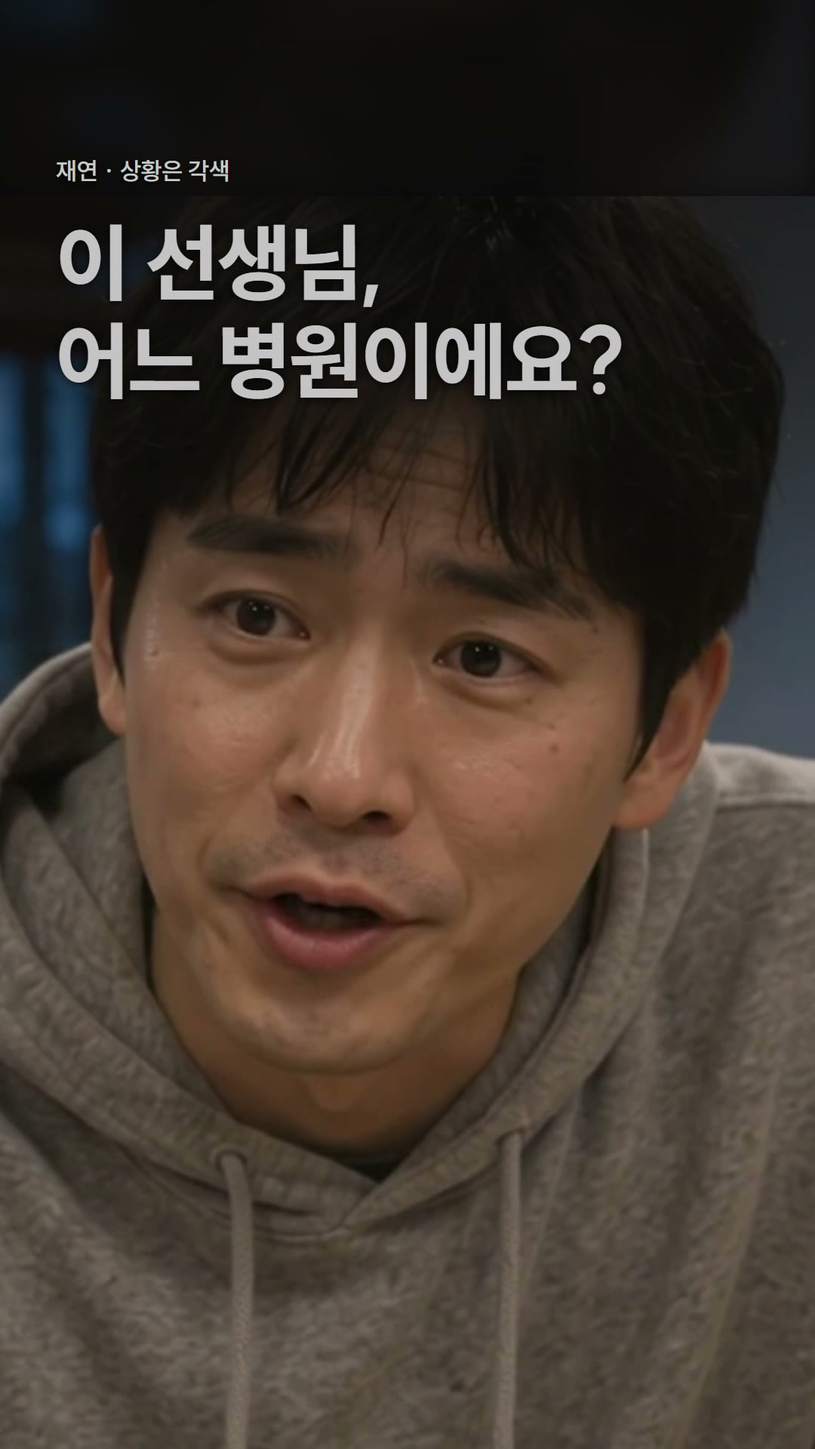
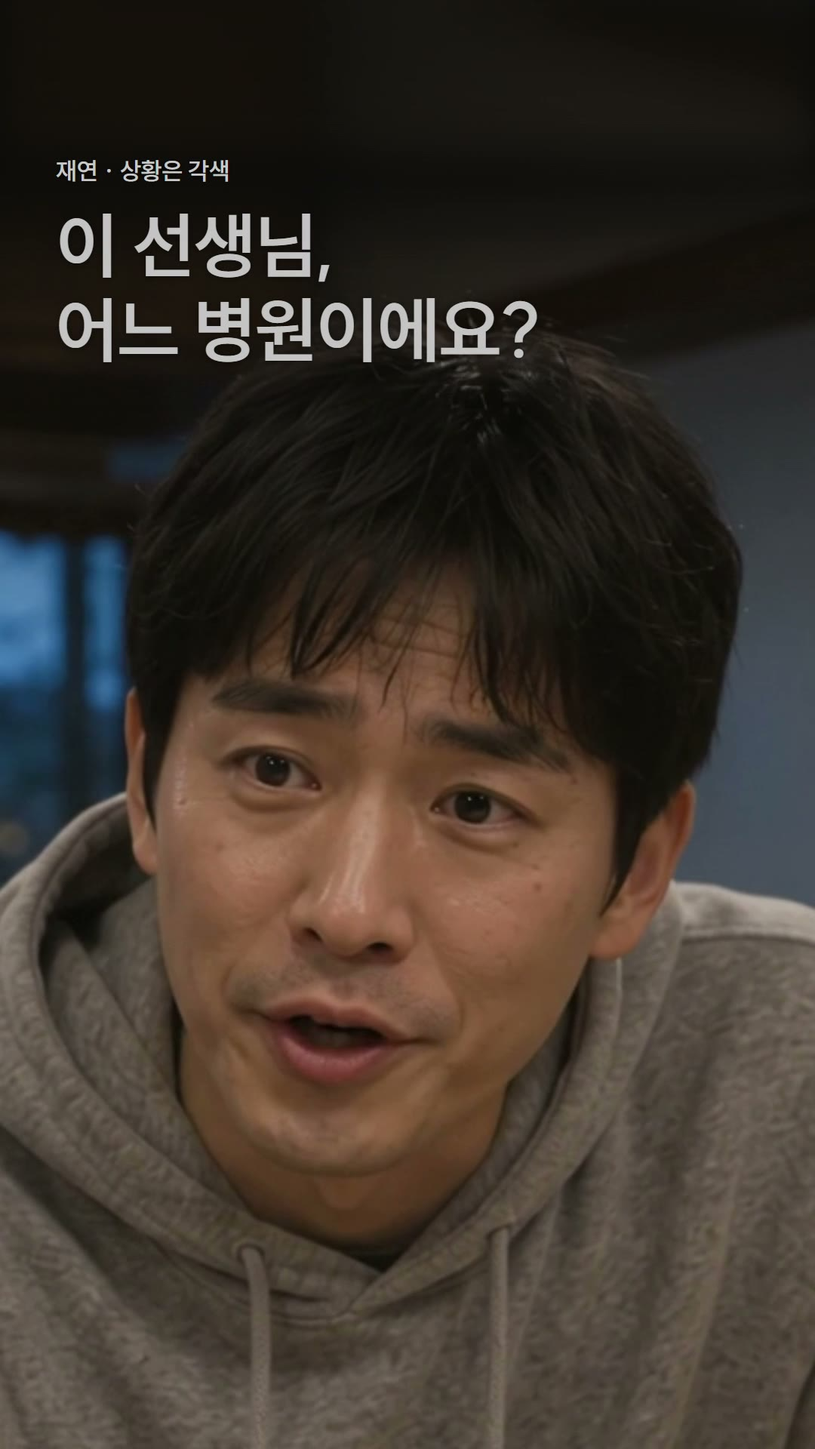
wip(synkbrief B38 가짜 의사 v7~v9 · 11-10 07:39 회차): 미학 맹검 GPT 둘 · 아르곤 둘 — 흐린 거울 경계 녹임 · 큰 글자 가볍게 · 광고 표시 아래로 · 해설 칸 말하는 구간 · 약사 칸 얼굴과 가운만 · 끝 칸 두 얼굴. v9 아르곤 기각 셋(광고 얼굴 두 컷 토킹헤드 · 끝 점프컷)이 남고 01~04는 세 번 거절 · GPT는 11-11 15:38까지 막혀 완성 아님 — 15:05 회차가 이어 받음(장부 · 기획 「미학 맹검」). 현장 노트 둘(동영상 만들기 회색 = 그날 몫 · 지어낸 목

diff --git a/docs/마케팅/synkbrief_가짜의사_20261110/remotion/src/timeline.ts b/docs/마케팅/synkbrief_가짜의사_20261110/remotion/src/timeline.ts
@@ -5,7 +5,7 @@
 // 대사 초는 받은 영상의 소리 크기 곡선 + 받아쓰기(허깅페이스 whisper)로 잰 값. V2 4.40~5.15초의 지어낸 아들 목소리 「어떤 선생님이요?」는 쓰지 않는다.
 // 광고 속 의사의 말(A1 · A3)은 그 광고 동영상의 소리를 폰 스피커 결로 깐다(public/img/*_phone.wav). V6에 든 폰 소리(「지금 바로 주문하세요」)는 쓰지 않는다.
 export type Crop = { s: number; cx: number; cy: number; ay?: number };
-export type CutT = { from: number; to: number; src: string; start: number; crop: Crop; rate?: number; drift?: number; audio?: number; ad?: boolean };
+export type CutT = { from: number; to: number; src: string; start: number; crop: Crop; rate?: number; drift?: number; audio?: number; ad?: boolean; chrome?: boolean; shade?: number };
 
 export const S = {
   search: 23.7, searchResult: 24.7, searchEnd: 26.0,
@@ -19,26 +19,27 @@ export const FPS = 24;
 export const CUTS: CutT[] = [
   // 기 — 광고 속 의사 → 넓게(식탁의 아버지 · 상자 일곱 · 뒤의 아들) → 아들 가까이(뒷목) → 아버지 근접 「선생님이 드시래」 → 상자
   // v6(11-10 미학 맹검 01 기각 「청진기 줄이 ∩ 고리로 뭉개짐」): 얼굴 · 상자까지만 당겨 가슴 아래 청진기를 뺀다
-  { from: 0, to: 1.15, src: 'img/A1.mp4', start: 1.2, crop: { s: 1.9, cx: 390, cy: 790 }, ad: true },
+  { from: 0, to: 1.15, src: 'img/A1.mp4', start: 1.2, crop: { s: 1.9, cx: 390, cy: 790, ay: 990 }, ad: true },
   { from: 1.15, to: 4.45, src: 'img/V1.mp4', start: 0.1, crop: { s: 1.0, cx: 540, cy: 960 }, audio: 0.5, drift: 0.015 },
   { from: 4.45, to: 7.0, src: 'img/V1.mp4', start: 4.15, crop: { s: 1.8, cx: 860, cy: 640 }, audio: 0.5 },
   { from: 7.0, to: 8.2, src: 'img/V2.mp4', start: 1.9, crop: { s: 1.05, cx: 540, cy: 960 }, audio: 1.0 },
   { from: 8.2, to: 9.3, src: 'img/V2.mp4', start: 3.1, crop: { s: 1.35, cx: 560, cy: 900 }, audio: 1.0 },
-  { from: 9.3, to: 10.5, src: 'img/V2.mp4', start: 4.2, crop: { s: 2.4, cx: 560, cy: 1750, ay: 1300 } },
+  { from: 9.3, to: 10.5, src: 'img/V2.mp4', start: 4.2, crop: { s: 2.4, cx: 560, cy: 1750, ay: 1350 } },
   // 승 — 「이거 몇 개째예요?」 → 「유명한 선생님이야」 → 「이 선생님, 어느 병원이에요?」 → 「…어디더라」
   { from: 10.5, to: 12.05, src: 'img/V3.mp4', start: 1.6, crop: { s: 1.1, cx: 600, cy: 1000 }, audio: 1.0 },
   { from: 12.05, to: 13.0, src: 'img/V3.mp4', start: 3.15, crop: { s: 1.4, cx: 640, cy: 950 }, audio: 1.0 },
   { from: 13.0, to: 15.1, src: 'img/V2.mp4', start: 5.25, crop: { s: 1.3, cx: 560, cy: 900 }, audio: 1.0 },
   { from: 15.1, to: 16.9, src: 'img/V3.mp4', start: 6.1, crop: { s: 1.45, cx: 640, cy: 900 }, audio: 1.0 },
-  { from: 16.9, to: 18.6, src: 'img/V3.mp4', start: 7.9, crop: { s: 1.8, cx: 640, cy: 880 }, audio: 1.0 },
+  { from: 16.9, to: 18.6, src: 'img/V3.mp4', start: 7.9, crop: { s: 1.6, cx: 640, cy: 820, ay: 1000 }, audio: 1.0 },
   { from: 18.6, to: 22.5, src: 'img/V4.mp4', start: 1.6, crop: { s: 1.05, cx: 540, cy: 980 }, audio: 1.0 },
   // 전 — 찾아봄 → 재연용 검색 화면 「일치하는 결과가 없습니다」 → 「이 얼굴, 아무 데도 없는데요」 → 아버지 얼굴 위 해설 → 광고 속 그 얼굴 → 폰을 내려놓음(느리게) → 상자
   { from: 22.5, to: 23.7, src: 'img/V4.mp4', start: 4.6, crop: { s: 1.7, cx: 760, cy: 1200 }, audio: 0.8 },
   { from: 26.0, to: 28.2, src: 'img/V4.mp4', start: 5.8, crop: { s: 1.05, cx: 540, cy: 980 }, audio: 1.0 },
   { from: 28.2, to: 29.6, src: 'img/V4.mp4', start: 8.0, crop: { s: 1.5, cx: 380, cy: 960 }, rate: 0.6 },
-  { from: 29.6, to: 32.7, src: 'img/A1.mp4', start: 7.0, crop: { s: 1.7, cx: 560, cy: 740 }, drift: 0.02, ad: true },
+  // v7(11-10 맹검 GPT 05 기각 「웃은 채 굳음 · 광고 표시가 입 · 볼에 걸림」): 말하며 끄덕이는 구간(3.0~6.1초)을 소리 없이, 얼굴 당김 칸엔 광고 표시를 얹지 않는다
+  { from: 29.6, to: 32.7, src: 'img/A1.mp4', start: 3.0, crop: { s: 1.5, cx: 610, cy: 760, ay: 1080 }, drift: 0.02, ad: true, chrome: false }, // v9(아르곤 05 [C083] 「정중앙 대칭 · 귀가 잘림」): 덜 당기고 얼굴을 조금 왼쪽에
   { from: 32.7, to: 35.05, src: 'img/V4.mp4', start: 8.85, crop: { s: 1.35, cx: 380, cy: 1000 }, rate: 0.5 },
-  { from: 35.05, to: 37.3, src: 'img/V1.mp4', start: 7.6, crop: { s: 1.8, cx: 520, cy: 1480, ay: 1100 }, audio: 0.3, drift: 0.01 },
+  { from: 35.05, to: 37.3, src: 'img/V1.mp4', start: 7.6, crop: { s: 1.8, cx: 520, cy: 1480, ay: 1150 }, audio: 0.3, drift: 0.01 },
   // 결 — 머쓱한 웃음 → 끝 줄(V5 · Flow, 반전 자리 40.9초에 아들 가까이) → 폰이 저절로 켜짐 → 같은 얼굴 · 약사 → 마주 봄 → 엎음 → 웃음 → 웃음 당김(끝 자리)
   { from: 37.3, to: 40.9, src: 'img/V5.mp4', start: 0.0, crop: { s: 1.0, cx: 540, cy: 960 }, audio: 1.0 },
   { from: 40.9, to: 42.4, src: 'img/V5.mp4', start: 3.6, crop: { s: 1.4, cx: 860, cy: 900 }, audio: 1.0 },
@@ -46,29 +47,34 @@ export const CUTS: CutT[] = [
   { from: 43.5, to: 44.9, src: 'img/V5.mp4', start: 6.2, crop: { s: 1.6, cx: 300, cy: 900 }, audio: 1.0 },
   { from: 44.9, to: 45.8, src: 'img/V6.mp4', start: 0.15, crop: { s: 1.0, cx: 540, cy: 1000 } },
   // 이해 시험(넷 중 넷): 약사 광고를 못 보거나 같은 얼굴을 늦게 알아챔 → 2.3초로 늘리고 첫 광고 얼굴(c13)과 같은 크기로 당긴다
-  { from: 45.8, to: 48.1, src: 'img/A3.mp4', start: 1.7, crop: { s: 1.35, cx: 540, cy: 780 }, drift: 0.02, ad: true },
+  // v7(맹검 GPT 06 「상자가 오른쪽에서 잘림」): 덜 당기고 상자 쪽으로
+  // v9(아르곤 06 기각 「엄지 없이 네 손끝으로 붙은 상자 · 몸이 굳은 립싱크」 · GPT 06 「상자가 목업 같음」): 손 · 상자를 빼고 얼굴과 약사 가운만, 밝은 칸이라 위 그늘은 옅게
+  { from: 45.8, to: 48.1, src: 'img/A3.mp4', start: 1.7, crop: { s: 1.5, cx: 405, cy: 760, ay: 1000 }, drift: 0.025, ad: true, shade: 0.6 },
   { from: 48.1, to: 49.0, src: 'img/V6.mp4', start: 3.7, crop: { s: 1.35, cx: 540, cy: 900 } },
   { from: 49.0, to: 49.85, src: 'img/V6.mp4', start: 5.45, crop: { s: 1.0, cx: 540, cy: 1000 }, audio: 1.0 },
-  { from: 49.85, to: 51.5, src: 'img/V6.mp4', start: 6.3, crop: { s: 1.15, cx: 540, cy: 940 }, audio: 1.0 },
-  { from: 51.5, to: 53.0, src: 'img/V6.mp4', start: 7.95, crop: { s: 1.4, cx: 560, cy: 880 }, audio: 1.0, drift: 0.008 },
+  // v7: 두 얼굴이 원본 가장자리(x 195 · 960)에 있어 둘을 함께 당기면 잘린다 → 웃는 아버지 가까이 → 끝은 넓게 두 사람과 상자 탑
+  { from: 49.85, to: 51.5, src: 'img/V6.mp4', start: 6.3, crop: { s: 1.3, cx: 420, cy: 900 }, audio: 1.0 }, // v9(아르곤 07 [K32] 「허공의 손이 다음 컷에 이미 어깨 위」): 아들 어깨까지 들게 해 손이 가는 길을 보인다
+  // v7(맹검 GPT 07 「웃는 두 얼굴이 가장자리에서 잘림」): 두 얼굴이 다 들게
+  { from: 51.5, to: 53.0, src: 'img/V6.mp4', start: 7.95, crop: { s: 1.0, cx: 540, cy: 960 }, audio: 1.0, drift: 0.01 },
 ];
 
 // 큰 글자 = 말. grey = 아들(두 사람 말은 흰 · 회색으로만 가른다). 광고 속 말은 위 작은 「광고 속 의사」 · 「다음 광고」. at = 줄마다 뜨는 초(말하는 때).
-export const LINES: { lines: string[]; from: number; to: number; grey?: boolean; size?: number; meta?: string; instant?: boolean; at?: number[] }[] = [
-  { lines: ['하루 두 알이면,', '몸이 거꾸로 젊어집니다'], from: 0, to: 3.3, size: 88, instant: true, at: [0, 1.6] },
-  { lines: ['저도 매일', '두 알씩 먹습니다'], from: 4.45, to: 6.5, size: 96, meta: '광고 속 의사', at: [4.45, 5.3] },
-  { lines: ['선생님이 드시래', '하루 두 알'], from: 7.0, to: 9.25, size: 100, at: [7.0, 8.2] },
-  { lines: ['아버지,', '이거 몇 개째예요?'], from: 11.2, to: 12.95, grey: true, size: 100, at: [11.2, 11.75] },
-  { lines: ['유명한 선생님이야'], from: 13.15, to: 14.55, size: 100 },
-  { lines: ['이 선생님,', '어느 병원이에요?'], from: 16.5, to: 18.5, grey: true, size: 112, at: [16.5, 17.1] },
-  { lines: ['…어디더라', '유튜브에 맨날 나오시는 분인데'], from: 19.05, to: 21.7, size: 84, at: [19.05, 19.9] },
-  { lines: ['…이 얼굴,', '아무 데도 없는데요'], from: 26.05, to: 28.1, grey: true, size: 100, at: [26.05, 26.9] },
-  { lines: ['그 의사, 사람이 아니었어요', 'AI로 만든 가상 인물이었어요'], from: 28.3, to: 32.3, size: 80, at: [28.3, 30.2] },
-  { lines: ['아버지만 산 게 아니었어요'], from: 32.45, to: 33.85, size: 84 },
-  { lines: ['아홉 달 동안 65만 개,', '81억 원어치가 팔렸어요'], from: 33.95, to: 37.25, size: 88, meta: '실제 사건 · 식약처 2026년 6월 발표', at: [33.95, 35.75] },
-  { lines: ['허허…', '비싼 거 아니야'], from: 37.45, to: 39.45, size: 100, at: [37.45, 38.3] },
-  { lines: ['저도 몰랐는데,', '의사가 권하는 영양제 광고는', '원래 안 되는 거래요'], from: 40.05, to: 44.6, grey: true, size: 80, meta: '식품표시광고법', at: [40.05, 41.4, 42.6] },
-  { lines: ['안녕하세요,', '삼십 년 차 약사입니다'], from: 45.1, to: 47.85, size: 96, meta: '다음 광고', at: [45.1, 46.05] },
+export const LINES: { lines: string[]; from: number; to: number; grey?: boolean; size?: number; meta?: string; instant?: boolean; at?: number[]; lead?: boolean }[] = [
+  // v8(맹검 GPT 03 · 05 · 06 [C002] 「큰 제목처럼 머리 위까지」): 큰 글자를 0.85배로 — 그늘 위 큰 글자(화면 결)는 지키되 얼굴보다 먼저 보이지 않게
+  { lines: ['하루 두 알이면,', '몸이 거꾸로 젊어집니다'], from: 0, to: 3.3, size: 75, instant: true, at: [0, 1.6] },
+  { lines: ['저도 매일', '두 알씩 먹습니다'], from: 4.45, to: 6.5, size: 82, meta: '광고 속 의사', at: [4.45, 5.3] },
+  { lines: ['선생님이 드시래', '하루 두 알'], from: 7.0, to: 9.25, size: 85, at: [7.0, 8.2] },
+  { lines: ['아버지,', '이거 몇 개째예요?'], from: 11.2, to: 12.95, grey: true, size: 85, at: [11.2, 11.75] },
+  { lines: ['유명한 선생님이야'], from: 13.15, to: 14.55, size: 85 },
+  { lines: ['이 선생님,', '어느 병원이에요?'], from: 16.5, to: 18.5, grey: true, size: 95, at: [16.5, 17.1] },
+  { lines: ['…어디더라', '유튜브에 맨날 나오시는 분인데'], from: 19.05, to: 21.7, size: 71, at: [19.05, 19.9] },
+  { lines: ['…이 얼굴,', '아무 데도 없는데요'], from: 26.05, to: 28.1, grey: true, size: 85, at: [26.05, 26.9] },
+  { lines: ['그 의사, 사람이 아니었어요', 'AI로 만든 가상 인물이었어요'], from: 28.3, to: 32.3, size: 72, at: [28.3, 30.2], lead: true }, // v8(맹검 05 「폭로 두 줄이 같은 무게」): 앞줄을 낮추고 뒷줄이 핵심
+  { lines: ['아버지만 산 게 아니었어요'], from: 32.45, to: 33.85, size: 71 },
+  { lines: ['아홉 달 동안 65만 개,', '81억 원어치가 팔렸어요'], from: 33.95, to: 37.25, size: 75, meta: '실제 사건 · 식약처 2026년 6월 발표', at: [33.95, 35.75] },
+  { lines: ['허허…', '비싼 거 아니야'], from: 37.45, to: 39.45, size: 85, at: [37.45, 38.3] },
+  { lines: ['저도 몰랐는데,', '의사가 권하는 영양제 광고는', '원래 안 되는 거래요'], from: 40.05, to: 44.6, grey: true, size: 68, meta: '식품표시광고법', at: [40.05, 41.4, 42.6] },
+  { lines: ['안녕하세요,', '삼십 년 차 약사입니다'], from: 45.1, to: 47.85, size: 82, at: [45.1, 46.05] }, // v7: 「다음 광고」 고지 뺌(맹검 GPT 06 「고지가 셋 쌓여 위계가 둔함」 — 광고 표시 · 가상 인물 표기가 이미 말함)
 ];
 
 export const VO: { id: string; t: number }[] = [

diff --git a/docs/마케팅/synkbrief_가짜의사_20261110/remotion/src/Film.tsx b/docs/마케팅/synkbrief_가짜의사_20261110/remotion/src/Film.tsx
@@ -14,13 +14,13 @@ const EASE_OUT = Easing.bezier(0.16, 1, 0.3, 1);
 const sec = (s: number) => Math.round(s * FPS);
 const GREY = '#C4C4C4';
 const X = 74;
-const TOP = 284;
+const TOP = 270;
 
 // 한 컷: 1080×1920 영상의 (cx, cy)를 화면 (540, ay)에 두고 s배 — 넘치는 쪽은 가장자리에 맞춘다
 const Shot: React.FC<{ src: string; start: number; crop: Crop; rate?: number; drift?: number }> = ({ src, start, crop, rate = 1, drift = 0.012 }) => {
   const f = useCurrentFrame();
   const s = crop.s * (1 + (f / FPS) * drift);
-  const ay = crop.ay ?? 880;
+  const ay = crop.ay ?? 930; // v8: 내린 폭을 260 → 210으로 줄인 50px만큼 당긴 컷의 기준을 내린다
   const x = Math.min(0, Math.max(1080 - 1080 * s, 540 - crop.cx * s));
   const y = Math.min(0, Math.max(1920 - 1920 * s, ay - crop.cy * s));
   const style: React.CSSProperties = { position: 'absolute', left: 0, top: 0, width: 1080, height: 1920, transformOrigin: '0 0', transform: `translate(${x}px, ${y}px) scale(${s})` };
@@ -33,13 +33,14 @@ const Shot: React.FC<{ src: string; start: number; crop: Crop; rate?: number; dr
   );
 };
 
-const Lowered: React.FC<{ d?: number; children: React.ReactNode }> = ({ d = 260, children }) => {
+// v8(11-10 맹검 GPT 두 번 「위의 검은 머리판 · 수평 경계가 덧댄 판처럼 보임」): 내린 폭을 줄이고, 또렷한 장면의 윗단을 흐린 거울 쪽으로 녹여 경계를 없앤다
+const Lowered: React.FC<{ d?: number; children: React.ReactNode }> = ({ d = 210, children }) => {
   const f = useCurrentFrame();
   const z = interpolate(f, [0, 8], [1.035, 1], { ...clamp, easing: EASE_OUT });
   return (
     <AbsoluteFill style={{ overflow: 'hidden', background: '#0b0b0b' }}>
-      <div style={{ position: 'absolute', inset: 0, transform: `translateY(${d}px) scaleY(-1)`, transformOrigin: '50% 0%', filter: 'blur(26px) brightness(0.78)' }}>{children}</div>
-      <div style={{ position: 'absolute', inset: 0, transform: `translateY(${d}px) scale(${z})`, transformOrigin: '50% 30%' }}>{children}</div>
+      <div style={{ position: 'absolute', inset: 0, transform: `translateY(${d}px) scaleY(-1)`, transformOrigin: '50% 0%', filter: 'blur(34px) brightness(0.9)' }}>{children}</div>
+      <div style={{ position: 'absolute', inset: 0, transform: `translateY(${d}px) scale(${z})`, transformOrigin: '50% 30%', WebkitMaskImage: 'linear-gradient(to bottom, transparent 0px, black 150px)', maskImage: 'linear-gradient(to bottom, transparent 0px, black 150px)' }}>{children}</div>
     </AbsoluteFill>
   );
 };
@@ -50,8 +51,8 @@ const AdChrome: React.FC<{ len: number }> = ({ len }) => {
   const p = interpolate(f, [0, len], [0.18, 0.34], clamp);
   return (
     <AbsoluteFill>
-      <div style={{ position: 'absolute', left: X, top: 1500, fontFamily: KO, fontWeight: 700, fontSize: 30, color: 'rgba(255,255,255,0.92)', background: 'rgba(0,0,0,0.42)', borderRadius: 8, padding: '6px 14px', letterSpacing: -0.3 }}>광고</div>
-      <div style={{ position: 'absolute', left: 0, right: 0, top: 1600, height: 6, background: 'rgba(255,255,255,0.22)' }}>
+      <div style={{ position: 'absolute', left: X, top: 1700, fontFamily: KO, fontWeight: 700, fontSize: 30, color: 'rgba(255,255,255,0.92)', background: 'rgba(0,0,0,0.42)', borderRadius: 8, padding: '6px 14px', letterSpacing: -0.3 }}>광고</div>
+      <div style={{ position: 'absolute', left: 0, right: 0, top: 1772, height: 6, background: 'rgba(255,255,255,0.22)' }}>
         <div style={{ width: `${p * 100}%`, height: '100%', background: 'rgba(255,255,255,0.85)' }} />
       </div>
     </AbsoluteFill>
@@ -62,13 +63,17 @@ const AdChrome: React.FC<{ len: number }> = ({ len }) => {
 const Shade: React.FC = () => {
   const f = useCurrentFrame();
   const on = LINES.reduce((m, l) => Math.max(m, interpolate(f, [sec(l.from) - 6, sec(l.from), sec(l.to), sec(l.to) + 8], [0, 1, 1, 0], clamp)), 0);
-  const k = 0.42 + 0.58 * on;
-  return <AbsoluteFill style={{ opacity: k, background: 'linear-gradient(to bottom, rgba(10,10,10,0.66) 0px, rgba(10,10,10,0.52) 470px, rgba(10,10,10,0.2) 760px, rgba(10,10,10,0) 940px)' }} />;
+  // v7(맹검 GPT 07 「끝의 짙은 띠가 작은 표기에 비해 크다」): 끝 칸은 표기만 읽히게 더 옅게
+  const base = interpolate(f, [sec(S.end), sec(S.end) + 8], [0.42, 0.2], clamp);
+  // v9(아르곤 맹검 06 「밝은 약국 장면 위를 시커멓게 덮음」): 밝은 칸은 그 칸의 shade 배율만큼 옅게
+  const cut = CUTS.find((c) => f >= sec(c.from) && f < sec(c.to));
+  const k = (base + (1 - base) * on) * (cut?.shade ?? 1);
+  return <AbsoluteFill style={{ opacity: k, background: 'linear-gradient(to bottom, rgba(10,10,10,0.62) 0px, rgba(10,10,10,0.46) 420px, rgba(10,10,10,0.16) 700px, rgba(10,10,10,0) 880px)' }} />;
 };
 
 // 큰 글자가 곧 말 — 다음 줄까지 0.6초 넘게 비면 끝에서 8프레임에 걸쳐 12px 올라가며 사라진다(맞받는 말은 3프레임)
 // at = 줄마다 뜨는 초(말하는 때 · 원본 박자 자리). 없으면 첫 줄부터 3프레임씩.
-const T: React.FC<{ lines: string[]; from: number; to: number; grey?: boolean; size?: number; meta?: string; instant?: boolean; fade?: number; at?: number[] }> = ({ lines, from, to, grey, size = 92, meta, instant, fade = 3, at }) => {
+const T: React.FC<{ lines: string[]; from: number; to: number; grey?: boolean; size?: number; meta?: string; instant?: boolean; fade?: number; at?: number[]; lead?: boolean }> = ({ lines, from, to, grey, size = 92, meta, instant, fade = 3, at, lead }) => {
   const f = useCurrentFrame();
   const a = sec(from), b = sec(to);
   if (f < a || f >= b) return null;
@@ -80,10 +85,10 @@ const T: React.FC<{ lines: string[]; from: number; to: number; grey?: boolean; s
     return { opacity: p * out, transform: `translateY(${(1 - p) * 28 + lift}px)` };
   };
   return (
-    <div style={{ position: 'absolute', left: X, width: 900, top: TOP, fontFamily: KO, textShadow: '0 2px 16px rgba(0,0,0,0.75), 0 0 3px rgba(0,0,0,0.5)' }}>
+    <div style={{ position: 'absolute', left: X, width: 900, top: TOP, fontFamily: KO, textShadow: '0 1px 10px rgba(0,0,0,0.45)' }}>
       {meta ? <div style={{ ...up(0, at ? 0 : undefined), fontWeight: 600, fontSize: 34, letterSpacing: -0.5, color: '#BDBDBD', marginBottom: 18 }}>{meta}</div> : null}
       {lines.map((l, i) => (
-        <div key={i} style={{ ...up(i + (meta ? 1 : 0), at ? i : undefined), fontWeight: 800, fontSize: size, lineHeight: 1.16, letterSpacing: -2.6, color: grey ? GREY : '#fff', wordBreak: 'keep-all' }}>{l}</div>
+        <div key={i} style={{ ...up(i + (meta ? 1 : 0), at ? i : undefined), fontWeight: lead && i === 0 ? 600 : 700, fontSize: lead && i === 0 ? Math.round(size * 0.86) : size, lineHeight: 1.18, letterSpacing: -1.8, color: grey || (lead && i === 0) ? GREY : '#fff', wordBreak: 'keep-all' }}>{l}</div>
       ))}
     </div>
   );
@@ -94,7 +99,8 @@ const T: React.FC<{ lines: string[]; from: number; to: number; grey?: boolean; s
 const labelAt = (t: number): string | null => {
   if (t >= S.end) return 'SYNK 브리핑';
   if (t >= S.search && t < S.searchEnd) return null;
-  if (CUTS.some((c) => c.ad && t >= c.from && t < c.to)) return '재연 · AI로 만든 가상 인물';
+  // v9(아르곤 맹검 05 「표기가 컷 도중 바뀌고 아래 큰 글자와 같은 말」): 해설이 「AI로 만든 가상 인물」을 말하는 칸은 앞 칸 표기를 그대로 둔다
+  if (CUTS.some((c) => c.ad && c.chrome !== false && t >= c.from && t < c.to)) return '재연 · AI로 만든 가상 인물';
   return '재연 · 상황은 각색';
 };
 const Label: React.FC = () => {
@@ -103,7 +109,8 @@ const Label: React.FC = () => {
   if (!text) return null;
   let since = 0;
   while (since < 6 && f - since - 1 >= 0 && labelAt((f - since - 1) / FPS) === text) since++;
-  const o = f === 0 ? 1 : interpolate(since, [0, 6], [0, 1], clamp);
+  // 첫 프레임부터 같은 글이면 바뀐 게 아니다(v7 — 맹검 GPT 01 「처음에 표시가 흐려졌다 돌아옴」)
+  const o = f - since <= 0 ? 1 : interpolate(since, [0, 6], [0, 1], clamp);
   return <div style={{ position: 'absolute', left: X, top: 206, opacity: o, fontFamily: KO, fontWeight: 600, fontSize: 32, color: 'rgba(255,255,255,0.78)', letterSpacing: -0.3, textShadow: '0 1px 10px rgba(0,0,0,0.85)' }}>{text}</div>;
 };
 
@@ -114,7 +121,7 @@ export const Film: React.FC = () => {
       {CUTS.map((c, i) => (
         <Sequence key={i} from={sec(c.from)} durationInFrames={sec(c.to) - sec(c.from)}>
           <Lowered><Shot src={c.src} start={c.start} crop={c.crop} rate={c.rate} drift={c.drift} /></Lowered>
-          {c.ad ? <AdChrome len={sec(c.to) - sec(c.from)} /> : null}
+          {c.ad && c.chrome !== false ? <AdChrome len={sec(c.to) - sec(c.from)} /> : null}
           {c.audio && /\.mp4$/.test(c.src) ? <Audio src={staticFile(c.src)} trimBefore={sec(c.start)} volume={c.audio} playbackRate={c.rate ?? 1} /> : null}
         </Sequence>
       ))}
@@ -126,7 +133,7 @@ export const Film: React.FC = () => {
       {LINES.map((l, i) => {
         const next = LINES[i + 1];
         const fade = !next || next.from - l.to > 0.6 ? 8 : 3;
-        return <T key={i} lines={l.lines} from={l.from} to={l.to} grey={l.grey} size={l.size} meta={l.meta} instant={l.instant} fade={fade} at={l.at} />;
+        return <T key={i} lines={l.lines} from={l.from} to={l.to} grey={l.grey} size={l.size} meta={l.meta} instant={l.instant} fade={fade} at={l.at} lead={l.lead} />;
       })}
 
       <Label />

diff --git a/docs/마케팅/synkbrief_가짜의사_20261110/remotion/src/Search.tsx b/docs/마케팅/synkbrief_가짜의사_20261110/remotion/src/Search.tsx
@@ -1,6 +1,7 @@
 // 폰 화면 — 광고 속 얼굴로 찾기(재연용으로 직접 만든 화면 · 실제 서비스 로고 · 이름 없음). 글은 우리가 쓴 그대로라 영상 모델이 다시 그리지 않는다.
 // v2(11-10 미학 맹검 04 기각 「폰 앱 꼴 없이 급조한 목업 · 로딩 막대가 툭 사라짐 · 앱에 안 쓰는 설명 글 · 사진 속 청진기」):
 //   상태 줄 · 검색창 안 사진 칩 · 얼굴 위를 훑는 스캔 줄 · 결과 탭 · 빈 결과 아이콘으로 실제 앱 꼴을 갖추고, 찾는 중 → 결과는 밀려 올라오며 바뀐다.
+//   v3(맹검 GPT 04 「결과 글이 앱 글씨보다 너무 큼」): 결과 글을 112 → 88 · 굵기 700으로 앱 꼴에 맞춤.
 //   사진은 A1에서 얼굴만 뽑은 한 장(청진기가 안 보이게). 버터는 이 편에서 「없습니다」 한 곳(화면 결 ②).
 import React from 'react';
 import { AbsoluteFill, Easing, Img, interpolate, staticFile, useCurrentFrame } from 'remotion';
@@ -74,10 +75,10 @@ export const Search: React.FC<{ resultAt: number }> = ({ resultAt }) => {
               <div style={{ position: 'absolute', width: 110, height: 8, background: SUB, borderRadius: 4, left: 22, top: 77, transform: 'rotate(-45deg)' }} />
             </div>
           </div>
-          <div style={{ marginTop: 110, textAlign: 'center', fontWeight: 800, fontSize: 112, lineHeight: 1.14, letterSpacing: -2.6, color: '#fff', wordBreak: 'keep-all' }}>
+          <div style={{ marginTop: 110, textAlign: 'center', fontWeight: 700, fontSize: 88, lineHeight: 1.18, letterSpacing: -1.6, color: '#fff', wordBreak: 'keep-all' }}>
             일치하는 결과가<br /><span style={{ color: BUTTER }}>없습니다</span>
           </div>
-          <div style={{ marginTop: 34, textAlign: 'center', fontWeight: 700, fontSize: 50, color: SUB, letterSpacing: -0.8 }}>비슷한 이미지 0개</div>
+          <div style={{ marginTop: 34, textAlign: 'center', fontWeight: 600, fontSize: 44, color: SUB, letterSpacing: -0.6 }}>비슷한 이미지 0개</div>
         </div>
       </div>
     </AbsoluteFill>

diff --git a/docs/마케팅/기획장부/synkbrief.md b/docs/마케팅/기획장부/synkbrief.md
@@ -205,7 +205,7 @@
 | 번호 | 기획 | 갈래 | 상태 | 편 폴더 | 근거 · 첫 2초 · 댓글 놀이 · 조건 |
 |---|---|---|---|---|---|
 | B37 | 회의 끝난 줄 알고 남아서 험담했다 — AI 회의록이 모두에게 갔다 | 사고 실화 · 재연 · 유입 · 근거 B · 원본 형식만 | **미완 — 11-10 칸 비움**(11-09 20:20 회차, 11-10 11:50 판정: 미학 맹검 네 번째에 기각 둘(결정 사항 폰 화면 · 끝 줄) · 고쳐서 넷 — 다음 빈 칸에 걸 때 두 컷만 고쳐 다시 맹검, 할 일은 [기획 「판정」](../synkbrief_회의록_20261109/기획.md)) · 고름(11-09 유호님 「그렇게 해」 — 새 방향 첫 편 · 슬롯 11-10(화) 21:00 · 블로그 21:10) | `docs/마케팅/synkbrief_회의록_20261109` | **무엇으로 이기나:** 한 장면 + 웃음 — 회의를 나간 사람들 폰이 동시에 울리고, 남아서 험담하던 두 사람의 폰도 따라 울린다. **누구에게 보내나 · 왜:** 같은 팀 동료 · 팀 단톡에게 / 내일 회의에 바로 쓸 한 줄이고 웃기다. **무슨 일(미국 2024 · 읽음 11-09):** [Fortune 10-06](https://fortune.com/2024/10/06/ai-assistants-ratting-out-for-badmouthing-coworkers/) — 일부가 통화에 남아 따로 나눈 말까지 기록돼 모든 참석자에게 발송 · 상대가 나간 뒤 투자사끼리 나눈 자기 회사 뒷말이 기록돼 자동 전송되어 거래가 깨짐. [Entrepreneur 10-02](https://www.entrepreneur.com/business-news/ai-transcription-services-are-spilling-company-secrets/480671) 같은 일 · 도구 회사는 「자동 공유를 끌 수 있었다」. **먼저:** 우리나라에서 많이 쓰는 회의 도구의 공식 도움말에서 자동 공유 · 기록 끄는 곳을 읽어 캡션을 확인한다(도구 이름은 영상에 쓰지 않는다). **형식 원본:** https://www.youtube.com/shorts/lgD3ZNRGQcE · 형식만 · 80.6만 · ×21.09 · 11-01 · 80초 · 「실제 상황」 들킴 꼴(우리는 40초 안팎, 안 맞으면 14일 판 · B21 우리편). **주제 근거(B):** https://www.youtube.com/shorts/wp-hrUFdMiU AI 회의록 편 8.8만 · ×4.6 · 10-23 · 위 댓글에 회사 기밀 회의 내용 유출 걱정(8). **첫 2초:** 결과부터 — 사무실 책상의 폰들이 동시에 울리고 부장이 고개를 든다. **끝 줄:** 당사자가 「회의 끝나면, AI 기록부터 끄세요」. **댓글 놀이:** 「우리 회사 회의록은 누가 받나요?」. **함정:** 실제 사례는 「상사 험담」이 아니라 남아서 나눈 대화 · 투자사 뒷말이다 — 화면에 「재연 · 상황은 각색」, 말로 「미국에서 실제로 있었던 일」. 발송은 회의 직후다(다음 날 아침으로 지어내면 거짓말처럼 보인다). 회사 · 도구 · 사람 이름 없음. 앱 화면은 실제 서비스 로고 없이. **컨셉 · 기승전결(11-08 규칙):** B급 웃김 · 어이없음 — 기(남아서 험담) · 승(나간 사람들 폰이 하나씩 울림) · 전(남은 두 사람 폰도 울리고 부장이 고개를 듦) · 결(당사자 끝 줄). 세기는 전에서 가장 크게. 감정 설계는 민망함 · 들킬까 봐 · 체념을 얼굴 클로즈와 폰 쥔 손으로. |
-| B38 | 광고 속 그 의사, 사람이 아니에요 — 9개월에 65만 개 · 81억 | 사고 실화 · 재연 · 유입 · 근거 B · 원본 형식만 | **제작 중(11-10 07:39 회차)** · 고름(11-09 유호님 「그렇게 해」 — 새 방향 둘째 편 · 슬롯 11-11(수) 21:00 · 블로그 21:10) | `docs/마케팅/synkbrief_가짜의사_20261110` | **무엇으로 이기나:** 이야기 — 아버지 식탁의 영양제 상자와 「선생님이 드시래」 → 아들이 「이 의사 어느 병원이에요?」 → 찾아도 없는 사람 → 아버지의 머쓱한 웃음으로 따뜻하게 닫는다. **누구에게 보내나 · 왜:** 부모님께 / 유튜브 광고 보고 건강식품을 사시는 부모님께 자식이 하기 어려운 말을 대신해 준다. **무슨 일(읽음 11-09):** 식약처 2026-06-10 발표 — AI로 만든 가상의 중년 의사가 추천하는 영상으로 비타민C · 효모 식품을 신체 나이 감소 · 역노화 효과처럼 광고, 2025-09~2026-05 약 65만 개 · 약 81억 원, 식품표시광고법 위반 혐의 검찰 송치([뉴시스](https://www.newsis.com/view/NISX20260610_0003662980) · [디지털데일리](https://www.ddaily.co.kr/page/view/2026061011014452873)). 의사 등이 식품을 추천하는 광고는 지금도 금지, AI 가짜 전문가까지 넓힌 법은 11-27 시행([데일리팜 8-7](https://m.dailypharm.com/user/news/341236)). **먼저:** 식약처 보도자료 원문을 열어 숫자 · 표현을 맞춘다(못 열면 위 언론 표현까지만). **형식 원본:** https://www.youtube.com/shorts/VtzxG-Ait0I · 형식만 · 13.2만 · B21 원본과 같은 AI 숏드라마 채널(집 안의 의심 · 배수는 회차가 잰다). **주제 근거(B):** https://www.youtube.com/shorts/b8WZBMQHvto SBS 뉴스 8.8천 · ×6.68 · 10-27 · 댓글 32 · 부모님 사기 수요 https://www.youtube.com/shorts/ZySYOUvCVgc 17.4만 · ×109.75 · https://www.youtube.com/shorts/vcIyYKZ4K-A 16.1만 · ×101.56(이 둘은 AI 사건이 아니다 — 시청자 수요로만). **첫 2초:** 폰 속 광고 화면부터 — 흰 가운 의사가 제품을 권한다, 위에 「재연 · AI로 만든 가상 인물」. **끝 줄:** 아들이 「영양제 광고에서 의사가 이거 드시라고 하면, 그 광고가 불법이래요」(범위를 식품 · 건강식품 광고로 좁힌다). **댓글 놀이:** 「부모님 댁에 이런 상자 있나요?」. **함정:** 「검찰 송치」까지만 말하고 유죄로 말하지 않는다. 업체 · 제품 이름 없음. 11-27 법과 지금 법을 섞어 말하지 않는다. 가짜 의사 얼굴은 실존 의사와 닮지 않게. 건강식품 전체를 나쁘다고 하지 않는다. B21과 무대 · 인물을 다르게(거실 · 엄마 · 딸 아님). **컨셉 · 기승전결(11-08 규칙):** 감성 · 따뜻한 여운 — 기(광고 속 의사) · 승(식탁에 쌓인 상자 · 「선생님이 드시래」) · 전(「어느 병원이에요?」 → 찾아도 없음 · 81억) · 결(아버지의 머쓱한 웃음 · 아들 끝 줄). 아버지를 놀리지 않는다 — 감정은 믿음 · 머쓱함 · 자식의 조심스러움. |
+| B38 | 광고 속 그 의사, 사람이 아니에요 — 9개월에 65만 개 · 81억 | 사고 실화 · 재연 · 유입 · 근거 B · 원본 형식만 | **제작 중(11-10 07:39 회차 → 15:05 회차가 이어 받음** — v9 미학 맹검 기각 셋(광고 얼굴 두 컷 · 끝 컷)이 남고 01~04는 아르곤이 세 번 거절 · GPT는 11-11 15:38까지 막힘, 경과는 [기획 「미학 맹검」](../synkbrief_가짜의사_20261110/기획.md)**)** · 고름(11-09 유호님 「그렇게 해」 — 새 방향 둘째 편 · 슬롯 11-11(수) 21:00 · 블로그 21:10) | `docs/마케팅/synkbrief_가짜의사_20261110` | **무엇으로 이기나:** 이야기 — 아버지 식탁의 영양제 상자와 「선생님이 드시래」 → 아들이 「이 의사 어느 병원이에요?」 → 찾아도 없는 사람 → 아버지의 머쓱한 웃음으로 따뜻하게 닫는다. **누구에게 보내나 · 왜:** 부모님께 / 유튜브 광고 보고 건강식품을 사시는 부모님께 자식이 하기 어려운 말을 대신해 준다. **무슨 일(읽음 11-09):** 식약처 2026-06-10 발표 — AI로 만든 가상의 중년 의사가 추천하는 영상으로 비타민C · 효모 식품을 신체 나이 감소 · 역노화 효과처럼 광고, 2025-09~2026-05 약 65만 개 · 약 81억 원, 식품표시광고법 위반 혐의 검찰 송치([뉴시스](https://www.newsis.com/view/NISX20260610_0003662980) · [디지털데일리](https://www.ddaily.co.kr/page/view/2026061011014452873)). 의사 등이 식품을 추천하는 광고는 지금도 금지, AI 가짜 전문가까지 넓힌 법은 11-27 시행([데일리팜 8-7](https://m.dailypharm.com/user/news/341236)). **먼저:** 식약처 보도자료 원문을 열어 숫자 · 표현을 맞춘다(못 열면 위 언론 표현까지만). **형식 원본:** https://www.youtube.com/shorts/VtzxG-Ait0I · 형식만 · 13.2만 · B21 원본과 같은 AI 숏드라마 채널(집 안의 의심 · 배수는 회차가 잰다). **주제 근거(B):** https://www.youtube.com/shorts/b8WZBMQHvto SBS 뉴스 8.8천 · ×6.68 · 10-27 · 댓글 32 · 부모님 사기 수요 https://www.youtube.com/shorts/ZySYOUvCVgc 17.4만 · ×109.75 · https://www.youtube.com/shorts/vcIyYKZ4K-A 16.1만 · ×101.56(이 둘은 AI 사건이 아니다 — 시청자 수요로만). **첫 2초:** 폰 속 광고 화면부터 — 흰 가운 의사가 제품을 권한다, 위에 「재연 · AI로 만든 가상 인물」. **끝 줄:** 아들이 「영양제 광고에서 의사가 이거 드시라고 하면, 그 광고가 불법이래요」(범위를 식품 · 건강식품 광고로 좁힌다). **댓글 놀이:** 「부모님 댁에 이런 상자 있나요?」. **함정:** 「검찰 송치」까지만 말하고 유죄로 말하지 않는다. 업체 · 제품 이름 없음. 11-27 법과 지금 법을 섞어 말하지 않는다. 가짜 의사 얼굴은 실존 의사와 닮지 않게. 건강식품 전체를 나쁘다고 하지 않는다. B21과 무대 · 인물을 다르게(거실 · 엄마 · 딸 아님). **컨셉 · 기승전결(11-08 규칙):** 감성 · 따뜻한 여운 — 기(광고 속 의사) · 승(식탁에 쌓인 상자 · 「선생님이 드시래」) · 전(「어느 병원이에요?」 → 찾아도 없음 · 81억) · 결(아버지의 머쓱한 웃음 · 아들 끝 줄). 아버지를 놀리지 않는다 — 감정은 믿음 · 머쓱함 · 자식의 조심스러움. |
 | B39 | 판사가 물었다 「이 판결, 어디서 찾으셨어요?」 — 변호사가 낸 판결 다섯 개가 전부 없었다 | 사고 실화 · 재연 · 권위 · 근거 B · 원본 형식만 | **고름(11-09 유호님 「그렇게 해」 — 새 방향 셋째 편 · 슬롯 11-12(목) 21:00 · 블로그 21:10)** | | **무엇으로 이기나:** 한 장면 — 판사가 서류에서 눈을 들어 묻고, 변호사가 말을 잇지 못하고, 뒤에 앉은 의뢰인이 천천히 변호사를 본다. **누구에게 보내나 · 왜:** AI가 준 근거를 보고서 · 계약서에 그대로 붙이는 동료 · 사장님에게 / 「변호사도 당했다」 + 바로 쓸 확인 한 줄. **무슨 일(읽음 11-09):** [법률신문 2025-09-27](https://www.lawtimes.co.kr/news/211663) — 한 지방법원 형사 재판에서 변호사가 의견서에 인용한 판결 다섯 개를 재판부가 전산으로 찾았더니 모두 없음, 다음 기일 전 철회, 출처를 묻자 AI 사용 인정(제재 · 결과는 보도 없음). 전국 판사 360명 설문에서 67%가 재판 중 가짜 판례를 본 적 있다(법원행정처 11-02, [뉴스토마토 11-04](https://newstomato.com/ReadNews.aspx?no=1319251)). 서울의 한 법원은 경위서를 요구했다([뉴스1 5-2](https://v.daum.net/v/XSgW2bNdtf)). **먼저:** 사법정보공개포털 「허위 사건번호 확인」([헤럴드경제 3-30](https://www.heraldk.com/article/2026033019450241461)에 2-20 추가로 나옴, 공식 안내는 못 찾음)을 실제로 열어 메뉴 이름 · 로그인 · 수수료를 본다. 안 되면 캡션에서 빼고 실제로 되는 길(판결서 인터넷 열람 등)만 적는다. **형식 원본:** https://www.youtube.com/shorts/jxtY4RzpaTc · 형식만 · 19만 · B21 원본과 같은 AI 숏드라마 채널(정체가 드러나는 반전 · 배수는 회차가 잰다). **주제 근거(B):** https://www.youtube.com/shorts/KClfl_qJgbc 뉴스 쇼츠 6.5천 · ×4.22 · 11-03 · 좋아요 4.2% · 댓글 40 · https://www.youtube.com/shorts/uyREtOLciOo 6.2천 · ×4.03 · 11-02 · 댓글 18(이번 주 이슈). **첫 2초:** 판사의 얼굴과 질문부터. **끝 줄:** 판사가 「없는 판결에도, AI는 번호까지 붙여 줘요」 → 해설 「AI가 근거를 대면, 번호를 직접 쳐 보세요」. 67%는 끝에 둔다(「난 변호사 아닌데」 거리감을 그 숫자로 푼다). **댓글 놀이:** 「AI가 지어낸 말에 당한 적 있나요?」. **함정:** 변호사 · 법원 · 사건을 특정하지 않는다. 「AI 사용 인정」까지만, 징계 · 패소를 말하지 않는다. 67%는 「본 적 있다」지 판결이 뒤집혔다는 뜻이 아니다. 의뢰인 시선은 각색이다(「재연 · 상황은 각색」). 법원 로고 · 이름 없음. **컨셉 · 기승전결(11-08 규칙):** 긴장 → 망신 — 기(판사의 질문) · 승(한 개씩 없다고 짚음) · 전(의뢰인이 천천히 변호사를 봄 · 「AI요」) · 결(판사 끝 줄 · 67%). 사건은 넓게(법정) → 감정 클로즈(변호사 눈) → 행동 클로즈(서류 넘기다 멈춘 손) → 결과(의뢰인 시선)로. |
 | B40 | 유튜브 광고에서 유명인이 「지금 들어오세요」 — 앱엔 수익이 찍히고, 출금은 안 된다 | 사고 실화 · 재연 · 유입 · 근거 B | 예비(11-09 관문 — 끝까지 3 · 재미 2 · 보내기 4 · 볼 이유 3. 금감원 공익광고와 안 갈리고 부모님께 보낼 편이 B38과 겹친다. 다시 볼 조건: B38 반응을 본 뒤 한 주 띄워서, 「손실 복구해 드립니다」에 더 보낸 반전을 중심으로) | | **사실(읽음 11-09):** 금감원 소비자경보 2026-01-26 「주의」 — 증권사 직원 · 전문가 사칭, 딥페이크 영상 · 음성, 가짜 앱 · 소액 수익 뒤 반환 거절 · 잠적, 행동 요령은 그 회사 고객센터에 재직 확인([메트로신문](https://www.metroseoul.co.kr/article/20260126500544)). 유튜브 중간광고의 딥페이크 목소리 투자 광고([서울신문 4-21](https://m.seoul.co.kr/news/2026/04/21/20260421500171)). 「손실 복구」에 9,100만 원을 더 보낸 한 사람 · 경찰 집계 2025년 6,853건 · 6,581억 원([서울신문 2-27](https://m.seoul.co.kr/news/2026/02/27/20260227005002)). **근거(B):** https://www.youtube.com/shorts/MnUWYBp0a_c AI 목소리 사기 숏드라마 9.8만 · ×3.64 · 11-04 · 좋아요 1.3천. **함정:** 유명인 · 증권사 실명과 얼굴 금지, 9,100만 원은 「한 사람」 사례, 수법을 따라 할 방법 없음. |
 

diff --git a/docs/마케팅/synkbrief_가짜의사_20261110/기획.md b/docs/마케팅/synkbrief_가짜의사_20261110/기획.md
@@ -143,3 +143,15 @@
 캡션으로 보낼 것(영상에 보태지 않음): ① 출처 — 식약처 2026-06-10 발표(뉴시스 · 디지털데일리), 업체 · 대표는 식품표시광고법 위반 혐의로 검찰 송치(재판 결과 아님) ② 영상 속 광고 · 의사 · 상자 · 가족은 재연, 실제 업체 · 제품과 무관 ③ 식품 · 건강기능식품 광고에서 의사 · 약사 · 교수 등이 추천 · 보증하는 것은 지금도 부당 광고(시행령 별표1 5호 라목) ④ 11-27부터 AI로 만든 가상 전문가가 보증 · 추천하는 것처럼 오인하게 하는 광고가 법에 따로 명시된다(법률 제21707호, 2026-05-26 공포) — 처분 기준(시행규칙)은 입법예고 단계라 「확정」으로 쓰지 않는다.
 
 콘티 이해성 6 · 몰입 7 → 반영한 것: ① 21~30초 무엇을 찾는지 — 아버지 「…어디더라. 유튜브에 맨날 나오시는 분인데」 → 아들이 광고 속 얼굴로 찾아봄 → 재연용 화면 「일치하는 결과가 없습니다」 → 아들 「…이 얼굴, 아무 데도 없는데요」(V4) ② 말 길이에 칸을 맞춘다 — 목소리를 먼저 받아 재고, 전체 51~52초까지 둔다 ③ 아버지가 V4 끝에서 폰을 화면이 위로 오게 식탁에 내려놓는다(다음 광고 자동 재생의 까닭) ④ 끝 줄 「저도 몰랐는데, 의사가 권하는 영양제 광고는 원래 안 되는 거래요」, 시선은 상자 쪽 · 옅은 웃음(훈계 티 빼기) · c13 해설 앞에 「아버지만 산 게 아니었어요」 ⑤ 「선생님이 드시래」는 뒤에 선 아들을 보고 하는 자랑(V2), c03엔 광고 소리 꼬리 「저도 매일 두 알씩 먹습니다」를 깐다. 폰 엎기 뒤는 3초까지 머문다. 끝 광고(V5 · V6)를 둘로 나눴다 — V5 머쓱한 웃음 · 끝 줄, V6 폰이 켜짐 · 마주 봄 · 엎기(핵심 장면).
+
+## 미학 맹검(11-10 · 일곱 순간 ±1초 8칸 띠 — 0.6 · 3.0 · 17.4 · 25.2 · 30.6 · 47.0 · 52.3초)
+
+| 판 | 눈 | 그대로 · 고쳐서 · 기각 | 기각 칸과 까닭 | 고친 것 |
+|---|---|---|---|---|
+| v5 | GPT | 기각 둘 | 01 첫 광고 청진기 줄이 뭉개짐 · 04 검색 화면이 급조한 목업 | 첫 광고를 얼굴 · 상자까지만 당김, 검색 화면을 상태 줄 · 사진 칩 · 스캔 줄 · 결과 탭이 있는 앱 꼴로(Search v2) |
+| v6 | GPT(아르곤은 대화가 사라지고 「프로그래밍 범위를 넘어」로 막힘) | 0 · 4 · 3 | 01 굵은 흰 고딕 · 짙은 그림자 · 표기 밝기 흔들림, 05 웃은 채 굳은 얼굴 · 광고 표시가 입 · 볼에 걸림, 06 상자가 오른쪽에서 잘림 · 고지 셋 쌓임 | 큰 글자 800 → 700 · 그림자 옅게, 광고 표시를 아래로, 해설 칸 얼굴은 말하는 구간(3.0초~)으로 · 광고 표시 뺌, 약사 칸 덜 당김 · 「다음 광고」 고지 뺌, 끝 칸 그늘 옅게 · 두 얼굴이 다 들게 |
+| v7 | GPT | 0 · 4 · 3 | 03 · 05 · 06 [C002] 「위의 검은 머리판 · 수평 경계」 — 장면을 260px 내리고 위를 흐린 거울로 채운 경계가 모든 컷에 선다(현장 노트 영상 「흐린 거울」) | 내린 폭 210px · 장면 윗단을 거울 쪽으로 녹임 · 그늘 0.62로, 큰 글자 0.85배, 해설 앞줄을 낮춰 뒷줄이 핵심, 당긴 컷의 기준을 50px 내려 머리 위 여백 |
+| v8 | 아르곤(GPT 세 계정은 11-11 15:38까지 막힘) | 둘째 묶음 0 · 2 · 1 | 06 약 상자를 엄지 없이 네 손끝으로 쥔 손 · 입만 움직이고 몸은 굳은 립싱크 · 밝은 약국 위 짙은 그늘 | 약사 칸을 얼굴 · 가운만(손 · 상자 뺌) · 그 칸 그늘 0.6배, 해설 칸 표기를 앞 칸 그대로(아래 큰 글자와 같은 말이라) · 얼굴을 덜 당겨 왼쪽으로, 끝 웃음 당김은 아들 어깨까지 들게(손이 가는 길) |
+| v9 | 아르곤(첫 묶음 01~04는 v6 · v8 · v9 세 번 다 대화가 사라지거나 「저는 텍스트 기반 AI입니다」로 거절) | 둘째 묶음 0 · 0 · 3 | 05 위 그늘 띠 + 흰 고딕 · 반전 줄이 연출 없이 툭 · 입만 움직이는 토킹헤드 · 턱 끝이 아래에 닿음, 06 밝은 약국 위 그늘 · 광고 화면다운 그래픽 없음 · 가운 · 어깨가 굳음, 07 같은 각도 점프컷 · 아랫단 상자 띠 불일치 · 엎은 폰이 안 보임 · 브랜드 끝 맺음 없음 | — (15:05 회차로 넘김) |
+
+**넘김(11-10 15:50):** 같은 날 15:05 synkbrief 회차가 이 편을 이어 받아 사람 컷을 Flow로 다시 굽는 중이라, 07:39 회차는 v9에서 손을 뗐다. 되풀이되는 뿌리는 셋 — ① 위 그늘 띠 + 흰 고딕 큰 글자([C002] · [K44] — 장부 「화면 결」 ① 내린 판 · 거울 · 위 그늘, ③ 84~112px과 부딪힌다. v8에서 0.85배로 줄여 몇 줄이 84px 밑이다) ② 광고 얼굴 두 컷(c13 · A3)이 입만 움직이는 토킹헤드 ③ 끝 컷의 점프컷 · 소품 · 끝 맺음. 01~04는 GPT가 11-11 15:38까지 막혀 대체 눈 opus 차례다(못 돌림). 아직 기각이 남아 완성이 아니다.

diff --git a/docs/현장노트/영상_ffmpeg_자막.md b/docs/현장노트/영상_ffmpeg_자막.md
@@ -1560,3 +1560,9 @@
 - 원인: 세로 720×1280 작품의 띠(1080 판에서 1080×674, 실제 화소 720×449)를 1280×800으로 올려 화면에 `cover`로 펼쳤다. 2560 화면이면 3.6배이고, 그 프레임이 움직이는 순간이라 흔들림도 함께 커졌다. 컷마다 한 번 · 이을 때 한 번 압축해 1.38Mbps였다. 1080 파일이어도 실제 세부는 720 남짓이다(폭을 반으로 줄였다 되살려도 SSIM 0.99).
 - 고침: `진열/굽기.cjs reel` — 비율이 맞는 작품만 꽉 채우고 안 맞으면 자르지 않고 검은 바탕 스크린으로, 1920×1200 · 1080×1920, 컷은 무손실(`-qp 0`)로 자른 뒤 이어 붙일 때 한 번만 압축. 같은 자르기에 압축만 올린 판(crf 20, 8.3MB)은 가로 작품만 좋아지고 얼굴 컷은 그대로였다. SeedVR2-3B로 그 띠를 1922×1200까지 키운 판(27장 3.3분)은 흔들린 얼굴의 피부가 갈라져 버렸다.
 - 다시 확인: 같은 프레임을 `scale=2560:1600,crop=…`으로 잘라 전후를 나란히 본다. 컷 경계는 `select='gt(scene,0.12)',showinfo`가 시각표와 같아야 한다.
+
+### 장면을 아래로 내리고 위를 흐린 거울로 채우면 맹검이 그 경계를 「덧댄 검은 머리판」으로 본다 — 또렷한 장면 윗단을 거울 쪽으로 녹이고 내린 폭을 줄인다 (2026-11-10 Claude)
+- 증상: 11-10 synkbrief B38(Remotion) — 큰 글자가 얼굴을 덮지 않게 모든 컷을 260px 내리고 비는 위를 같은 장면을 뒤집어 흐린 판(`blur(26px) brightness(0.78)`)으로 채웠다. GPT 미학 맹검이 두 번 내리 일곱 칸 중 다섯 칸에서 「상단의 검은 헤더」 · 「고지 뒤 어두운 면의 수평 경계가 선명하다 · 별도 판을 덧댄 흔적」 · 「넓은 어두운 바탕이 장면과 분리돼 보인다」를 짚어 기각 셋이 남았다. 자막 크기 · 굵기만 줄인 판(v7)도 같은 지적이었다.
+- 원인: 흐린 거울 판과 또렷한 장면이 260px에서 칼로 자른 듯 만난다. 그 위에 위 그늘까지 얹혀 경계가 더 짙게 읽힌다 — 정지 화면 한 장으로 보면 눈에 덜 띄지만 띠(±1초 8칸)로 보면 모든 컷에 같은 수평선이 선다.
+- 고침: 내린 폭을 210px로 줄이고, 또렷한 장면 판에 `maskImage: linear-gradient(to bottom, transparent 0px, black 150px)`을 걸어 윗단을 거울 쪽으로 녹인다(거울은 `blur(34px) brightness(0.9)`). 줄인 50px만큼 당긴 컷의 기준 자리(`ay`)를 내려 머리 위 여백을 지키고, 위 그늘은 0.62 → 0으로 옅게(`docs/마케팅/synkbrief_가짜의사_20261110/remotion/src/Film.tsx` `Lowered` · `Shade`).
+- 다시 확인: 같은 일곱 순간으로 다시 맹검 — 「머리판 · 수평 경계」 지적이 사라지는지(아래 결과는 그 편 기획.md 「미학 맹검」).

diff --git a/docs/현장노트/gemini_사진.md b/docs/현장노트/gemini_사진.md
@@ -475,6 +475,7 @@
 - 다시 확인: 다음 동영상 편 첫 요청에서 창이 다시 뜨는지, 보낸 직후 탭 주소와 최근 목록 새 줄이 같은지.
 - 같은 날: 「회의실에서 웃는 30대 남녀」 시작 그림(GPT 이미지)이 위 「일부 공인」 거절에 다시 걸렸다 — 얼굴을 「주근깨 · 화장 거의 없음 · 피곤한 눈 밑 · 오래된 여드름 자국」 평범한 판으로 바꿔 다시 구운 뒤 일곱 편이 모두 통과. **77yuhbs(Ultra 20x)는 11-10 하루에 동영상 일곱 편을 거절 없이 만들었다** — 위 「그날 세 번째부터 거절」(10-30 · Ultra 5x 때)은 지금 판에는 맞지 않을 수 있다. 끝나는 데는 한 편 3~10분.
 - 다시 확인(11-10 09:32 V8): 같은 일이 또 났다 — 보낸 뒤 탭 주소 `null`, 보내기 실행기의 「최근」 새 줄 잡기도 못 잡아 받기가 빈손. 주소 잡기를 믿지 말고, 다음 차례에 최근 대화를 하나씩 열어 **보낸 지시문 첫 줄이 든 대화**를 찾는다(`~/ego/synkbrief-b37-20261109/find8.mjs`).
+- 11-10 오후 덧붙임(B38, Claude): 같은 a 줄로 B37 · B38이 그날 열다섯 편 가까이 만든 뒤에는 거절 글이 아니라 **도구 메뉴의 「동영상 만들기」가 눌리지 않는 회색**이 됐다 — 그날 몫이 찬 표시로 읽고 남은 한 편(V5)은 Flow Omni 1.2 Flash 8초(24크레딧)로 만들었다(`~/ego/synkbrief-b38-20261110/flow/`). 또 동영상에 든 목소리는 지시문에 없는 말을 지어 넣을 수 있다 — V2 아버지 컷 4.40~5.15초에 화면 밖 아들 목소리 「어떤 선생님이요?」가 들어 있었다. 받은 판은 모두 받아쓰기(`tools/허깅페이스.py 받아쓰기 … --언어 ko`)로 지시문과 대 보고 지어낸 구간은 쓰지 않는다.
 
 ### 차례 「기다리기」를 `timeout`으로 짧게 감싸면 줄이 길 때 차례 직전에 끊긴다 — 번호표는 남으니 같은 이름으로 바로 다시 선다 (2026-11-10 Claude)
 - 증상: 11-10 오전 gemini 줄에 미학 맹검 · 뼈대 시안 등 열한 건이 섰다. `timeout 2400`(40분)으로 감싼 B37 기다리기가 앞 세 건을 남기고 끝나 「못 잡음」. 미학 맹검 한 차례는 줄에 선 지 41분~1시간 44분 뒤에야 잡혔다(한 사람 한 차례가 20분까지).
